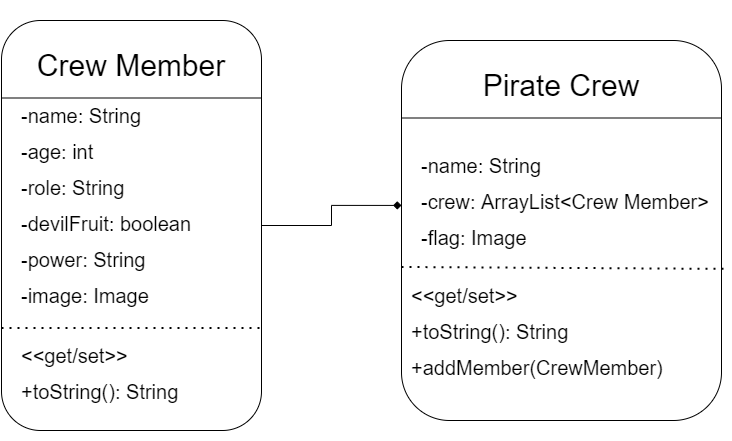
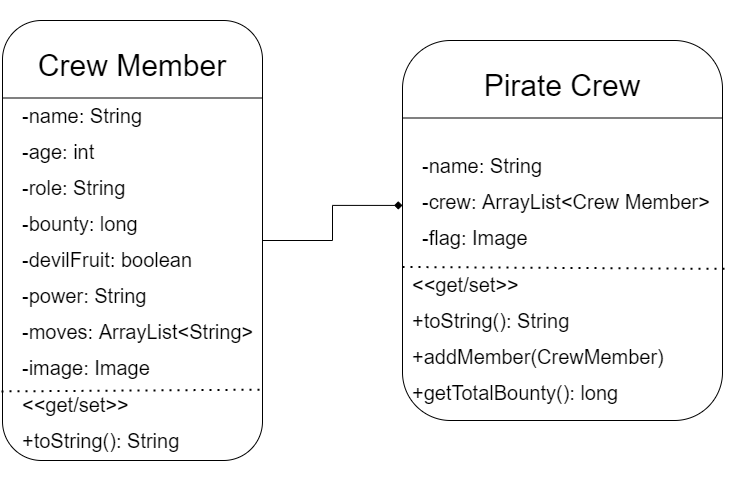
add list views, specific image views, logic upon changing, and updated UML diagram

diff --git a/src/main/java/com/example/comp1008st1169679assignment2/CrewMember.java b/src/main/java/com/example/comp1008st1169679assignment2/CrewMember.java
@@ -9,26 +9,68 @@ import java.util.List;
 
 public class CrewMember {
 
+    // instance variables for name, age, role, bounty, whether they have a devil fruit or not, method of combat, notable attacks, and image
     private String name;
     private int age;
     private String role;
+    private long bounty;
     private boolean devilFruit;
     private String power;
+    private ArrayList<String> attacks;
     private Image image;
 
-    public CrewMember(String name, int age, String role, boolean devilFruit, String power) {
+    /**
+     *
+     * Constructor for a pirate
+     * @param name Name of the pirate
+     * @param age Age of the pirate
+     * @param role Role that the pirate plays in the crew
+     * @param bounty Government issued bounty of the pirate
+     * @param devilFruit Whether the pirate has a devil fruit ability or not
+     * @param power The pirate's method of combat
+     * @param moves Any notable attacks that the pirate uses
+     */
+    public CrewMember(String name, int age, String role, long bounty, boolean devilFruit, String power, String... moves) {
+        // set the attacks to a new ArrayList
+        attacks = new ArrayList<>();
         setName(name);
         setAge(age);
         setRole(role);
+        setBounty(bounty);
         setDevilFruit(devilFruit);
         setPower(power);
-        image = new Image(getClass().getResource(String.format("img/people/%s.png", name)).toExternalForm());
+        setAttacks(moves);
+        // create the image resource link based off the name parameter
+        image = new Image(getClass().getResource(String.format("img/people/%s.png", name.split(" ")[name.split(" ").length - 1].toLowerCase())).toExternalForm());
+    }
+
+    /**
+     * Getter for the bounty instance variable
+     * @return the value of the pirate's bounty instance variable
+     */
+    public long getBounty() {
+        return bounty;
+    }
+
+    /**
+     * Setter for the bounty instance variable
+     * @param bounty Must be at least 0 to be added
+     */
+    public void setBounty(long bounty) {
+        if (bounty >= 0)
+            this.bounty = bounty;
+        else
+            throw new IllegalArgumentException("Bounty cannot be negative.");
     }
 
     public String getName() {
         return name;
     }
 
+    /**
+     * Setter for the name instance variable
+     * @param name Must be at least 2 characters long
+     */
     public void setName(String name) {
         if (name.length() > 1)
             this.name = name;
@@ -40,6 +82,10 @@ public class CrewMember {
         return age;
     }
 
+    /**
+     * Setter for the age instance variable
+     * @param age Cannot be less than or equal to zero
+     */
     public void setAge(int age) {
         if (age > 0)
             this.age = age;
@@ -51,6 +97,10 @@ public class CrewMember {
         return devilFruit;
     }
 
+    /**
+     * Setter for the devilFruit instance variable
+     * @param devilFruit true if they do, false if they don't
+     */
     public void setDevilFruit(boolean devilFruit) {
         this.devilFruit = devilFruit;
     }
@@ -59,6 +109,10 @@ public class CrewMember {
         return power;
     }
 
+    /**
+     * Setter for the power instance variable
+     * @param power Must be at least one character long. What good is a pirate if they can't fight?
+     */
     public void setPower(String power) {
         if (power.length() > 0)
             this.power = power;
@@ -66,24 +120,65 @@ public class CrewMember {
             throw new IllegalArgumentException("Any good pirate must have a power to sail the seas!");
     }
 
+    /**
+     * Overridden toString() method
+     * @return Just the name instance variable. No need for anything fancy
+     */
     @Override
-    public String toString(){
-        return String.format("Name: %s%nAge: %s%nRole: %s%nDevil Fruit: %s%nSpecial Power: %s%n", getName(), getAge(), getRole(), hasDevilFruit() ? "Yes" : "No", getPower());
+    public String toString() {
+        return name;
+    }
+
+    /**
+     * Method to get all the information about the pirate. Kind of like your usual toString() method
+     * @return a String containing all information pertaining to the pirate
+     */
+    public String getData(){
+        String moves = "";
+        for (String attack : attacks) {
+            moves += attack + "\n";
+        }
+        return String.format("Name: %s%nAge: %s%nRole: %s%nBounty: %,8d Berries%nDevil Fruit: %s%nSpecial Power: %s%nNotable Attacks: %n%s", name, age, role, bounty, devilFruit ? "Yes" : "No", power, moves);
     }
 
     public String getRole() {
         return role;
     }
 
+    /**
+     * Setter for the role instance variable
+     * @param role Must be one of these choices: "Captain", "Fighter", "Navigator", "Doctor", "Chef", "Marksman", "Shipwright", "Helmsman", "Musician", "Archaeologist", "Other"
+     */
     public void setRole(String role) {
-        List<String> validRoles = Arrays.asList("captain", "fighter", "navigator", "doctor", "chef", "marksman", "shipwright", "helmsman", "musician", "archaeologist");
+        List<String> validRoles = Arrays.asList("captain", "fighter", "navigator", "doctor", "chef", "marksman", "shipwright", "helmsman", "musician", "archaeologist", "other");
         if (validRoles.contains(role.toLowerCase()))
             this.role = role;
         else
             throw new IllegalArgumentException("Role must be one of these: " + validRoles);
     }
 
+    /**
+     * Getter for the image instance variable
+     * @return The image for the pirate in question
+     */
     public Image getImage() {
         return image;
+    }
+
+    /**
+     * Setter for the attacks instance variable
+     * @param attacks As many notable named-attacks that the pirate may use as Strings
+     */
+    public void setAttacks(String... attacks) {
+        for (String move : attacks) {
+            if(move.length() > 1)
+                this.attacks.add(move);
+            else
+                throw new IllegalArgumentException("All attack names must be at least 2 characters");
+        }
+    }
+
+    public ArrayList<String> getAttacks() {
+        return attacks;
     }
 }

diff --git a/src/main/java/com/example/comp1008st1169679assignment2/PirateCrewsController.java b/src/main/java/com/example/comp1008st1169679assignment2/PirateCrewsController.java
@@ -1,41 +1,78 @@
 package com.example.comp1008st1169679assignment2;
 
+import javafx.beans.Observable;
+import javafx.beans.value.ChangeListener;
+import javafx.beans.value.ObservableValue;
+import javafx.collections.FXCollections;
+import javafx.collections.ObservableList;
+import javafx.event.EventHandler;
 import javafx.fxml.FXML;
 import javafx.fxml.Initializable;
+import javafx.scene.control.ListView;
 import javafx.scene.image.ImageView;
+import javafx.scene.input.MouseEvent;
 
 import java.net.URL;
+import java.util.ArrayList;
 import java.util.ResourceBundle;
 
 public class PirateCrewsController implements Initializable {
 
     @FXML
-    private ImageView luffyImage;
+    private ImageView flagImage;
 
     @FXML
-    private ImageView sanjiImage;
+    private ImageView pirateImage;
 
     @FXML
-    private ImageView strawHatImage;
+    private ListView<PirateCrew> crewList;
 
     @FXML
-    private ImageView zoroImage;
+    private ListView<CrewMember> pirateList;
 
+    // overridden initialize method
     @Override
     public void initialize(URL url, ResourceBundle resourceBundle) {
-        CrewMember luffy = new CrewMember("Luffy", 19, "Captain", true, "Gum Gum Fruit");
-        CrewMember zoro = new CrewMember("Zoro", 21, "Fighter", false, "Three-Sword Style");
-        CrewMember sanji = new CrewMember("Sanji", 21, "Chef", false, "Black-Leg Style");
+        // creating all the individual pirates
+        CrewMember luffy = new CrewMember("Monkey D. Luffy", 19, "Captain", 1_500_000_000, true, "Gum Gum Fruit (Rubber Man)", "Gum-Gum Pistol", "Red Hawk", "King-Kong Gun");
+        CrewMember zoro = new CrewMember("Roronoa Zoro", 21, "Fighter", 320_000_000, false, "Three-Sword Style", "Iai Death Lion Song", "Purgatory Onigiri", "Asura: Dead Man's Game");
+        CrewMember sanji = new CrewMember("Vinsmoke Sanji", 21, "Chef", 330_000_000, false, "Black-Leg Style", "Concassé", "Anti-Manner Kick Course", "Hell Memories");
+        CrewMember law = new CrewMember("Trafalgar Law", 26, "Captain", 500_000_000, true, "Op-Op Fruit", "Injection Shot", "Gamma Knife", "Pucture Wille");
+
+        // creating all the pirate crews
         PirateCrew strawHats = new PirateCrew("Straw Hat Pirates");
+        PirateCrew heartPirates = new PirateCrew("Heart Pirates");
+
+        // adding the pirates to their respective crews
         strawHats.add(luffy);
         strawHats.add(zoro);
         strawHats.add(sanji);
+        heartPirates.add(law);
 
-        luffyImage.setImage(luffy.getImage());
-        zoroImage.setImage(zoro.getImage());
-        sanjiImage.setImage(sanji.getImage());
-        strawHatImage.setImage(strawHats.getFlag());
+        // making an array of the pirate crews to add to the ListView object
+        PirateCrew[] crews = new PirateCrew[]{strawHats, heartPirates};
+        crewList.setItems(FXCollections.observableArrayList(crews));
 
-        System.out.println(strawHats.toString());
+        // this will run whenever a different item is selected in the list of crews
+        crewList.getSelectionModel().selectedItemProperty().addListener((observableValue, oldSelection, newSelection) -> {
+            try{
+                // set the flag ImageView to the corresponding jolly roger
+                flagImage.setImage(newSelection.getFlag());
+                // set the list of pirates to be that of the selected crew
+                pirateList.setItems(FXCollections.observableList(newSelection.getCrew()));
+                // set the image of the pirate to the first one in the list
+                pirateImage.setImage(newSelection.getCrew().get(0).getImage());
+            }
+            catch (NullPointerException ignored){}
+        });
+
+        // this will run whenever a different item is selected in the list of pirates
+        pirateList.getSelectionModel().selectedItemProperty().addListener((observableValue, oldSelection, newSelection) -> {
+            try{
+                // set the image to the pirate object that is selected
+                pirateImage.setImage(newSelection.getImage());
+            }
+            catch (NullPointerException ignored){}
+        });
     }
 }

diff --git a/src/main/java/com/example/comp1008st1169679assignment2/PirateCrew.java b/src/main/java/com/example/comp1008st1169679assignment2/PirateCrew.java
@@ -6,10 +6,15 @@ import java.util.ArrayList;
 
 public class PirateCrew {
 
+    // name, list of pirates (crew) and jolly roger
     private String name;
     private ArrayList<CrewMember> crew;
     private Image flag;
 
+    /**
+     * constructor for a Pirate Crew object. creates a new ArrayList for the crew. the parameter is used to render the image for the flag as well
+     * @param name must end with "Pirates" and have a name before of at least 2 characters.
+     */
     public PirateCrew(String name){
         if (name.toLowerCase().endsWith("pirates") && name.split(" ").length > 1){
             this.name = name;
@@ -22,20 +27,48 @@ public class PirateCrew {
         return name;
     }
 
+    /**
+     * Overridden toString() method
+     * @return the object's name instance variable
+     */
     @Override
     public String toString() {
-        String members = "";
-        for (CrewMember member : crew) {
-            members += member.toString() + "\n";
-        }
-        return name + "\n---------------------------------\n" + members;
+        return name;
     }
 
+    /**
+     * Method to add a crewmate to the crew
+     * @param member will be added to the object's crew instance variable
+     */
     public void add(CrewMember member){
         crew.add(member);
     }
 
+    /**
+     * method to get the flag image
+     * @return the image of the object (The crew's jolly roger)
+     */
     public Image getFlag() {
         return flag;
+    }
+
+    /**
+     * method to get the crew ArrayList
+     * @return the ArrayList of CrewMembers for the specified Pirate Crew
+     */
+    public ArrayList<CrewMember> getCrew() {
+        return crew;
+    }
+
+    /**
+     * Method to get the total bounty of the notable crew members
+     * @return the sum of all bounties from the crew
+     */
+    public long getTotalBounty(){
+        long totalBounty = 0;
+        for (CrewMember pirate : crew) {
+            totalBounty += pirate.getBounty();
+        }
+        return totalBounty;
     }
 }

diff --git a/src/main/java/com/example/comp1008st1169679assignment2/Main.java b/src/main/java/com/example/comp1008st1169679assignment2/Main.java
@@ -12,11 +12,13 @@ public class Main extends Application {
     public void start(Stage stage) throws IOException {
         FXMLLoader fxmlLoader = new FXMLLoader(Main.class.getResource("pirate-crew-view.fxml"));
         Scene scene = new Scene(fxmlLoader.load());
+        // set the title to be for one piece pirate crews
         stage.setTitle("One Piece Pirate Crews!");
         stage.setScene(scene);
         stage.show();
     }
 
+    // main method that launches the scene and controller
     public static void main(String[] args) {
         launch();
     }
